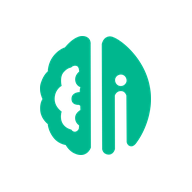
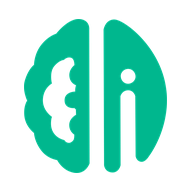
add splash

Changed region(s): [[0.125, 0.0938, 0.875, 0.9062]]

diff --git a/config/splash.ts b/config/splash.ts
@@ -1,0 +1,28 @@
+/*
+ * صفحهٔ شروع (splash) اپ نصبشده روی آیفون و آیپد.
+ * iOS برای هر اندازهٔ صفحه یک عکس دقیق میخواهد؛ عکسها در public/splash
+ * هستند (لوگوی سبز روی مشکی + «آیوهوش»). اندروید splash را خودش از
+ * app.webmanifest (background_color + آیکون) میسازد.
+ */
+export const appleStartupImages = [
+  { url: "/splash/apple-splash-640x1136.png", media: "(device-width: 320px) and (device-height: 568px) and (-webkit-device-pixel-ratio: 2) and (orientation: portrait)" },
+  { url: "/splash/apple-splash-750x1334.png", media: "(device-width: 375px) and (device-height: 667px) and (-webkit-device-pixel-ratio: 2) and (orientation: portrait)" },
+  { url: "/splash/apple-splash-1242x2208.png", media: "(device-width: 414px) and (device-height: 736px) and (-webkit-device-pixel-ratio: 3) and (orientation: portrait)" },
+  { url: "/splash/apple-splash-1125x2436.png", media: "(device-width: 375px) and (device-height: 812px) and (-webkit-device-pixel-ratio: 3) and (orientation: portrait)" },
+  { url: "/splash/apple-splash-828x1792.png", media: "(device-width: 414px) and (device-height: 896px) and (-webkit-device-pixel-ratio: 2) and (orientation: portrait)" },
+  { url: "/splash/apple-splash-1242x2688.png", media: "(device-width: 414px) and (device-height: 896px) and (-webkit-device-pixel-ratio: 3) and (orientation: portrait)" },
+  { url: "/splash/apple-splash-1170x2532.png", media: "(device-width: 390px) and (device-height: 844px) and (-webkit-device-pixel-ratio: 3) and (orientation: portrait)" },
+  { url: "/splash/apple-splash-1284x2778.png", media: "(device-width: 428px) and (device-height: 926px) and (-webkit-device-pixel-ratio: 3) and (orientation: portrait)" },
+  { url: "/splash/apple-splash-1179x2556.png", media: "(device-width: 393px) and (device-height: 852px) and (-webkit-device-pixel-ratio: 3) and (orientation: portrait)" },
+  { url: "/splash/apple-splash-1290x2796.png", media: "(device-width: 430px) and (device-height: 932px) and (-webkit-device-pixel-ratio: 3) and (orientation: portrait)" },
+  { url: "/splash/apple-splash-1206x2622.png", media: "(device-width: 402px) and (device-height: 874px) and (-webkit-device-pixel-ratio: 3) and (orientation: portrait)" },
+  { url: "/splash/apple-splash-1260x2736.png", media: "(device-width: 420px) and (device-height: 912px) and (-webkit-device-pixel-ratio: 3) and (orientation: portrait)" },
+  { url: "/splash/apple-splash-1320x2868.png", media: "(device-width: 440px) and (device-height: 956px) and (-webkit-device-pixel-ratio: 3) and (orientation: portrait)" },
+  { url: "/splash/apple-splash-1488x2266.png", media: "(device-width: 744px) and (device-height: 1133px) and (-webkit-device-pixel-ratio: 2) and (orientation: portrait)" },
+  { url: "/splash/apple-splash-1536x2048.png", media: "(device-width: 768px) and (device-height: 1024px) and (-webkit-device-pixel-ratio: 2) and (orientation: portrait)" },
+  { url: "/splash/apple-splash-1620x2160.png", media: "(device-width: 810px) and (device-height: 1080px) and (-webkit-device-pixel-ratio: 2) and (orientation: portrait)" },
+  { url: "/splash/apple-splash-1640x2360.png", media: "(device-width: 820px) and (device-height: 1180px) and (-webkit-device-pixel-ratio: 2) and (orientation: portrait)" },
+  { url: "/splash/apple-splash-1668x2224.png", media: "(device-width: 834px) and (device-height: 1112px) and (-webkit-device-pixel-ratio: 2) and (orientation: portrait)" },
+  { url: "/splash/apple-splash-1668x2388.png", media: "(device-width: 834px) and (device-height: 1194px) and (-webkit-device-pixel-ratio: 2) and (orientation: portrait)" },
+  { url: "/splash/apple-splash-2048x2732.png", media: "(device-width: 1024px) and (device-height: 1366px) and (-webkit-device-pixel-ratio: 2) and (orientation: portrait)" },
+];

diff --git a/components/pwa/splash-screen.tsx b/components/pwa/splash-screen.tsx
@@ -1,0 +1,59 @@
+"use client";
+
+import { useEffect, useState } from "react";
+
+import { LOGO_PATHS, LOGO_VIEWBOX } from "./splash-logo-paths";
+
+// حداقل زمان نمایش از لحظهٔ شروع بارگذاری صفحه، تا اسپلش فقط یک چشمک نباشد.
+const MIN_VISIBLE_MS = 1200;
+const FADE_MS = 400;
+
+export default function SplashScreen() {
+  const [phase, setPhase] = useState<"visible" | "leaving" | "gone">("visible");
+
+  useEffect(() => {
+    if (document.documentElement.getAttribute("data-splash") === "off") {
+      setPhase("gone");
+      return;
+    }
+
+    const wait = Math.max(0, MIN_VISIBLE_MS - performance.now());
+    const leave = window.setTimeout(() => setPhase("leaving"), wait);
+    const remove = window.setTimeout(() => {
+      setPhase("gone");
+      document.documentElement.setAttribute("data-splash", "off");
+    }, wait + FADE_MS);
+
+    return () => {
+      window.clearTimeout(leave);
+      window.clearTimeout(remove);
+    };
+  }, []);
+
+  if (phase === "gone") return null;
+
+  return (
+    <div
+      id="app-splash"
+      aria-hidden="true"
+      className={`fixed inset-0 z-[100] flex flex-col items-center justify-center gap-5 bg-[#0a0a0a] transition-opacity duration-400 motion-reduce:transition-none ${
+        phase === "leaving" ? "pointer-events-none opacity-0" : "opacity-100"
+      }`}
+    >
+      <svg
+        viewBox={LOGO_VIEWBOX}
+        className="w-28 motion-safe:animate-[splash-in_700ms_ease-out_both]"
+        fill="#00b78e"
+        stroke="#22d0a6"
+        strokeWidth={0.77}
+      >
+        {LOGO_PATHS.map((d) => (
+          <path key={d.slice(0, 16)} d={d} />
+        ))}
+      </svg>
+      <span className="text-3xl font-extrabold text-white motion-safe:animate-[splash-in_700ms_120ms_ease-out_both]">
+        آیوهوش
+      </span>
+    </div>
+  );
+}

diff --git a/components/pwa/splash-logo-paths.ts b/components/pwa/splash-logo-paths.ts
@@ -1,0 +1,7 @@
+// مسیرهای لوگوی آیوهوش (public/logo.svg) برای نمایش بدون درخواست شبکه.
+export const LOGO_VIEWBOX = "0 0 332.44 356.95";
+
+export const LOGO_PATHS = [
+  "M151.38,24.73S154.09,1.48,127.83.41c-26.27-1.07-52.92,33.98-52.92,33.98,0,0-18.15,4.75-34.76,25.88-16.61,21.13-16.61,45.96-16.61,45.96,0,0-12.36,8.88-20.46,33.6-8.11,24.71,4.64,49.43,4.64,49.43,0,0-8.71,10.43-6.57,35.14,2.14,24.72,22.39,39.78,22.39,39.78,0,0,.39,18.54,15.84,39.39,15.45,20.86,37.85,23.17,37.85,23.17,0,0,11.97,25.11,39.39,29.36,27.42,4.24,35.53-21.63,35.53-21.63l-.77-309.74h0ZM119.72,168.41s-25.11-.39-25.11,20.08,22.79,17.76,22.79,17.76l3.48,3.48.39,12.36s-15.84,8.11-15.84,23.56,11.59,22.01,11.59,22.01c0,0,.8,9.02-1.94,13.13-2.74,4.11-7.37,6.62-10.43,6.57-3.05-.06-5.52-1-7.33-2.32-1.81-1.32-3.86-4.25-3.86-4.25,0,0-17.32-3.09-26.27-18.92-8.94-15.84-2.69-35.15-2.69-35.15,0,0-22.53-14.67-20.86-40.93,1.67-26.27,20.86-36.31,20.86-36.31,0,0-6.56-26.26,5.79-40.55,12.35-14.29,22.4-14.29,22.4-14.29,0,0,6.17-7.47,15.83-5.4,9.65,2.07,8.89,17.76,8.89,17.76,0,0-13.52,10.04-11.59,26.26s15.44,20.09,15.44,20.09c0,0-2.64,7.68-1.87,15.4",
+  "M329.3,155.31C313.85,62.63,233.89,3.16,211.51,1.61c-22.39-1.55-26.25,23.16-26.25,23.16l1.16,314s1.16,15.27,17.77,16.58c16.61,1.32,20.08-16.58,20.08-16.58l-.39-159.91s3.86-13.52,17.77-13.9c13.9-.39,17.38,13.9,17.38,13.9l.77,139.03s1.54,11.09,11.97,12.74,18.54-12.74,18.54-12.74c0,0,54.44-69.91,38.99-162.59h0ZM242.12,150.33c-9.81,0-17.08-8.02-17.5-17.5-.42-9.45,8.35-17.5,17.5-17.5,9.81,0,17.08,8.02,17.5,17.5.42,9.45-8.35,17.5-17.5,17.5h0Z",
+];

diff --git a/components/pwa/splash-gate.ts b/components/pwa/splash-gate.ts
@@ -1,0 +1,16 @@
+// جدا از splash-screen.tsx: این رشته در layout سرور استفاده میشود و
+// نباید از یک ماژول "use client" import شود.
+
+export const SPLASH_SESSION_KEY = "aiohoush-splash-shown";
+
+/*
+ * قبل از رندر بدنه اجرا میشود (در <head>): اسپلش فقط در اپ نصبشده و
+ * فقط یک بار در هر بار باز کردن اپ نمایش داده شود؛ در غیر این صورت با
+ * data-splash="off" پنهان میماند تا حتی یک لحظه هم دیده نشود.
+ */
+export const splashGateScript = `(function(){try{
+var d=document.documentElement;
+var standalone=window.matchMedia("(display-mode: standalone)").matches||window.navigator.standalone===true;
+if(!standalone||sessionStorage.getItem("${SPLASH_SESSION_KEY}")){d.setAttribute("data-splash","off");return;}
+sessionStorage.setItem("${SPLASH_SESSION_KEY}","1");
+}catch(e){document.documentElement.setAttribute("data-splash","off");}})();`;

diff --git a/app/layout.tsx b/app/layout.tsx
@@ -4,6 +4,8 @@ import "./globals.css";
 import { QueryProvider } from "@/providers/query-provider";
 import InstallPrompt from "@/components/pwa/install-prompt";
 import UpdatePrompt from "@/components/pwa/update-prompt";
+import SplashScreen from "@/components/pwa/splash-screen";
+import { splashGateScript } from "@/components/pwa/splash-gate";
 import { darbare } from "@/lib/utils";
 
 
@@ -18,8 +20,14 @@ export default function RootLayout({ children }: LayoutProps<"/">) {
       lang="fa-IR"
       dir="rtl"
       className={`${darbare.variable}  h-full antialiased`}
+      // data-splash را اسکریپت زیر قبل از hydrate تنظیم میکند.
+      suppressHydrationWarning
     >
+      <head>
+        <script dangerouslySetInnerHTML={{ __html: splashGateScript }} />
+      </head>
       <body className="min-h-full flex flex-col items-center">
+        <SplashScreen />
         <QueryProvider>{children}
 
           <InstallPrompt />

diff --git a/app/dashboard/layout.tsx b/app/dashboard/layout.tsx
@@ -4,6 +4,7 @@ import ClarityProvider from "@/components/clarity-provider";
 import DashboardHeader from "../../components/dash/header";
 import ProfileReminder from "@/components/dash/profile-reminder";
 import type { Metadata } from "next";
+import { appleStartupImages } from "@/config/splash";
 
 import { getCurrentUser } from "@/lib/auth/current-user";
 import {
@@ -23,6 +24,7 @@ export const metadata: Metadata = {
     capable: true,
     title: "آیوهوش",
     statusBarStyle: "black-translucent",
+    startupImage: appleStartupImages,
   },
   icons: {
     apple: "/pwa/apple-icon-180.png",

diff --git a/app/login/layout.tsx b/app/login/layout.tsx
@@ -1,4 +1,5 @@
 import type { Metadata } from "next";
+import { appleStartupImages } from "@/config/splash";
 import type { ReactNode } from "react";
 
 export const metadata: Metadata = {
@@ -7,6 +8,7 @@ export const metadata: Metadata = {
     capable: true,
     title: "آیوهوش",
     statusBarStyle: "black-translucent",
+    startupImage: appleStartupImages,
   },
   icons: {
     apple: "/pwa/apple-icon-180.png",

diff --git a/app/globals.css b/app/globals.css
@@ -65,3 +65,19 @@ body {
   background: var(--background);
   color: var(--foreground);
 }
+
+/* اسپلش داخل اپ (components/pwa/splash-screen.tsx) */
+html[data-splash="off"] #app-splash {
+  display: none;
+}
+
+@keyframes splash-in {
+  from {
+    opacity: 0;
+    transform: translateY(8px) scale(0.96);
+  }
+  to {
+    opacity: 1;
+    transform: none;
+  }
+}
